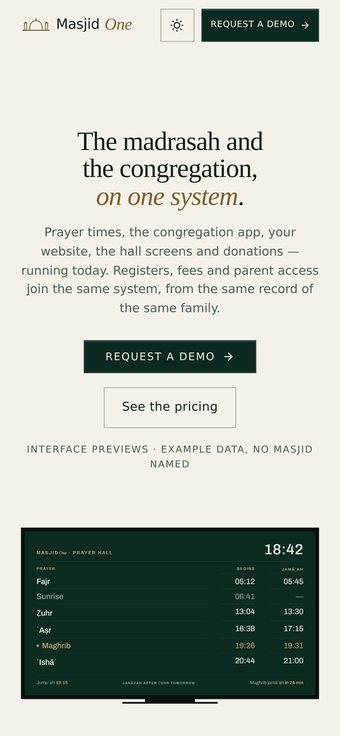
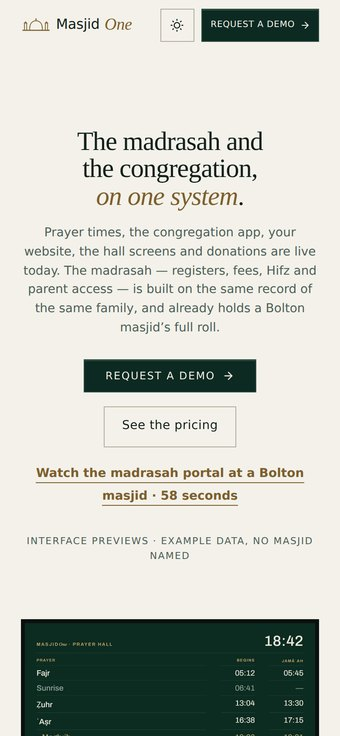
Re-check MasjidOne against its repository: the madrasah portal is built
Seventy commits had landed in that repository since this case study was
written, and the write-up had gone wrong in the expensive direction: it said
the madrasah portal and parent access "are not built yet". Both are built and
enforcing. That repository's own CLAUDE.md records the same error being
corrected on its site on 1 October — features were tagged "in development"
because their tables were empty. Zero rows means nobody has used it yet, not
that it does not exist; the test is whether the functions exist and enforce,
not whether rows do.

The copy now splits the two halves the way that repository splits them,
because they are genuinely at different stages:

- The congregation side runs every day in a Bolton masjid — a year of prayer
  times published, jamāʿah notifications firing off the timetable on their
  own. Defensible, and it was being needlessly withheld.
- The madrasah side is built and holds that masjid's full roll, but no
  register has been marked on it, so it is not described as running. "Built"
  and "in a masjid" are the limit; "running" and "in daily use" are not, and
  are not borrowed from the congregation half.
- Nothing is said about reach. "It runs every day" is true; "a congregation
  uses it" is not. The demo's reach figure is invented sample data and stays
  out of any sentence about a real masjid.

One thing genuinely is unbuilt and is still labelled so: knowing whether a
hall screen is switched on and talking back.
[…]

Changed region(s): [[0.0588, 0.3125, 0.9412, 0.6875], [0.0588, 0.7188, 0.9412, 1.0]]

diff --git a/src/data/cases.js b/src/data/cases.js
@@ -224,10 +224,10 @@ export const cases = {
     "slug": "masjidone",
     "title": "MasjidOne",
     "kind": "Own product",
-    "role": "Next.js 15, static export · TypeScript · Tailwind · shadcn/ui · Supabase Postgres · Stripe · OneSignal",
-    "problem": "A masjid runs its week across half a dozen systems that have never heard of each other &mdash; prayer times in one, the website in another, the madrasah register on paper, fees in a book, donations somewhere else again. The office knows the same family three separate times and can only join them up by remembering. Plenty of products do the congregation side well; the part nobody does is the <strong>madrasah's daily operations</strong> &mdash; the register marked each evening, the sabaq heard, the fee due &mdash; in the same system, and then giving a parent a view of their own child.",
-    "approach": "So MasjidOne is one record of one family, reachable from both sides. Four surfaces per masjid &mdash; the website, the in-building screens, a congregation app and the office portal &mdash; on one Supabase Postgres, where <strong>every table carries a masjid_id</strong> and every policy and function filters on it. A database per customer would have meant a separate migration, key set and auth setup each time, and the thing that makes the product work happens <em>inside</em> one masjid rather than between them, so the separation would have bought nothing and cost a great deal to run. Row Level Security and SECURITY DEFINER functions scope every query to one masjid; Stripe runs an account per masjid at 0% commission on donations.",
-    "outcome": "This is the part of it I have built and can show: the marketing site a committee lands on after a conversation. Next.js 15 exported to static files, so there is nothing running at request time and nothing to keep patched. <strong>The madrasah portal and parent access are not built yet</strong>, and the pricing page says so in the plan itself rather than in a footnote &mdash; one plan reads <em>in development</em>, the other <em>live</em>. Every interface shown on the site is labelled as a preview with example data and no masjid named.",
+    "role": "Next.js 15, static export · TypeScript · Tailwind · shadcn/ui · Supabase Postgres with Row Level Security · Stripe · OneSignal · Cloudflare Worker",
+    "problem": "A masjid runs its week across half a dozen systems that have never heard of each other &mdash; prayer times in one, the website in another, the madrasah register on paper, fees in a book, donations somewhere else again. The office knows the same family three separate times and can only join them up by remembering; right now <em>the masjid is the integration</em>. Plenty of products do the congregation side well. The part nobody does is the <strong>madrasah’s daily operations</strong> &mdash; the register marked each evening, the sabaq heard, the fee due &mdash; in the same system, and then giving a parent a view of their own child.",
+    "approach": "One record of one family, reachable from both sides. Four surfaces per masjid &mdash; the website, the in-building screens, a congregation app and the office portal &mdash; on one Supabase Postgres, where <strong>every table carries a masjid_id</strong> and every policy and function filters on it. A database per customer would have meant a separate migration, key set and auth setup each time, and the thing that makes the product work happens <em>inside</em> one masjid rather than between them, so the separation would have bought nothing and cost a great deal to run. Row Level Security and SECURITY DEFINER functions scope every query to one masjid; Stripe runs an account per masjid at 0% commission on donations.<br><br>The doors are deliberately separate rather than one portal behind a permissions matrix. A teacher sees their own classes and nothing else &mdash; not the roll, not fees, not another teacher’s register. And <strong>a parent is not a smaller administrator</strong>: they arrive to answer one question about their own child, and should never land on a screen implying the rest of the madrasah is theirs to look at.",
+    "outcome": "The madrasah portal is built &mdash; registers, fees, Hifz and sabaq progress, and parent access &mdash; and it holds a Bolton masjid’s full roll. <strong>The two halves are at different stages and the copy says so separately</strong>, because they are not in the same place: the congregation side runs every day, with a year of prayer times published and jamāʿah notifications firing off the timetable on their own, while the madrasah side is built and loaded but the office has not started marking registers on it — so it is not described as running. One piece is genuinely unbuilt and still labelled as such: knowing whether a hall screen is switched on and talking back.<br><br>Getting that right needed a rule rather than a glance. Features were being tagged <em>in development</em> because their tables were empty &mdash; but <strong>zero rows means nobody has used it yet, not that it does not exist</strong>. The test is whether the functions exist and enforce, not whether rows do.<br><br>Alongside the public site sit five module pages, a demonstration tenant anyone can walk through on invented data, and a support console that is the one page touching the real platform. Every gate on it is in Postgres rather than in the page: the anonymous role holds no EXECUTE, a platform admin needs a completed second factor, and entering a masjid you do not belong to writes a support-access row into <em>their</em> audit trail.",
     "links": [],
     "shots": [
       {
@@ -235,15 +235,23 @@ export const cases = {
         "alt": "The MasjidOne home page: the madrasah and the congregation, on one system",
         "w": 760,
         "h": 475,
-        "caption": "The marketing site · previews labelled as previews",
+        "caption": "The marketing site · every interface on it labelled as a preview",
         "portrait": false
       },
       {
-        "src": "/assets/img/masjidone-pricing.jpg",
-        "alt": "The pricing page, with the madrasah plan tagged in development and the complete plan tagged live",
+        "src": "/assets/img/masjidone-teacher.jpg",
+        "alt": "A teacher's register in the demonstration tenant, with invented pupils marked in, late or absent",
         "w": 760,
         "h": 475,
-        "caption": "Pricing · what is built says live, what is not says in development",
+        "caption": "Tonight’s register · a teacher sees their own classes and nothing else",
+        "portrait": false
+      },
+      {
+        "src": "/assets/img/masjidone-parent.jpg",
+        "alt": "Parent access in the demonstration tenant: two invented children, their attendance for the week and a button to report an absence",
+        "w": 760,
+        "h": 475,
+        "caption": "Parent access · their own children, their attendance, and a way to report an absence",
         "portrait": false
       },
       {
@@ -255,7 +263,7 @@ export const cases = {
         "portrait": true
       }
     ],
-    "description": "A product putting a masjid's madrasah and its congregation on one system — one record of one family, on Supabase with a masjid_id on every table."
+    "description": "A product joining a masjid's madrasah to its congregation: one record of one family on Supabase, with a masjid_id on every table."
   },
   "ellash": {
     "slug": "ellash",

diff --git a/src/data/projects.js b/src/data/projects.js
@@ -58,12 +58,12 @@ export const lead = [
     slug: 'masjidone', href: '/masjidone.html', name: 'MasjidOne',
     kind: 'Own product', where: 'Bolton',
     product: true,
-    status: 'In development',
-    stack: 'Next.js 15, static export · TypeScript · Tailwind · shadcn/ui · Supabase Postgres · Stripe',
-    outcome: 'Four surfaces on one Supabase Postgres, with a masjid_id on every table and Row Level Security scoping every query to one masjid. The marketing site is built and published; the madrasah portal and parent access are in development, and the pricing page says which is which on the plan card itself.',
+    status: 'In one masjid',
+    stack: 'Next.js 15, static export · TypeScript · Tailwind · shadcn/ui · Supabase Postgres with RLS · Stripe · OneSignal · Cloudflare Worker',
+    outcome: 'Four surfaces on one Supabase Postgres, with a masjid_id on every table and Row Level Security scoping every query to one masjid. The congregation side runs every day in a Bolton masjid; the madrasah portal — registers, fees, Hifz and sabaq, parent access — is built and holds that masjid’s full roll.',
     problem: 'The office knows the same family three separate times — prayer times in one system, the website in another, the register on paper, fees in a book — and can only join them up by remembering.',
-    approach: 'One Supabase Postgres behind four surfaces per masjid, with Row Level Security scoping every query to one masjid. What I have built and can show is the marketing site: Next.js 15 exported to static files. The madrasah portal and parent access are not built yet, and the pricing page says so in the plan itself.',
-    layers: { interface: 88, software: 94, infra: 82 },
+    approach: 'One Supabase Postgres behind four surfaces per masjid, with Row Level Security and SECURITY DEFINER functions scoping every query to one masjid. The doors are separate rather than one portal behind a permissions matrix: a teacher sees their own classes and nothing else, and a parent is not a smaller administrator. The support console touches the real platform, and every gate on it is in Postgres rather than in the page.',
+    layers: { interface: 90, software: 98, infra: 88 },
     img: '/assets/img/masjidone-web.jpg', alt: 'The MasjidOne marketing site',
   },
 ];

diff --git a/CLAUDE.md b/CLAUDE.md
@@ -96,7 +96,7 @@ material to carry a screenshot-led layout.
 | The Venetian Company | Paying client, live on their own domain | 4 |
 | Hair by Chrissy | Paying client | 4 |
 | Diamond Heating & Plumbing | Paying client, **built and not live yet** | 3 |
-| MasjidOne | **Own product**, part-built — not client work | 3 |
+| MasjidOne | **Own product**, running at one masjid — not client work | 4 |
 
 Do not imply these were all commissions, and do not imply they are all live.
 Taiyabah is community work; say so. Diamond is finished and handed over but
@@ -117,7 +117,7 @@ thing to branch on.
 **`status` in `projects.js`** drives the badge printed over each homepage
 shot. Omit it and the project gets the pulsing "Live" chip; set it and that
 exact string prints flat instead — currently "Not live yet" for Diamond and
-"In development" for MasjidOne. It replaced a boolean, which could only say
+"In one masjid" for MasjidOne. It replaced a boolean, which could only say
 live or not and had no way to describe a published marketing site in front of
 a part-built product. A Live badge on either is the kind of claim the copy
 rules bar, so put the honest label here rather than dropping the badge.
@@ -190,7 +190,7 @@ Four navigable pages, five case studies, three unlisted.
 | `/venetian.html` | Case study — client, live on own domain | via work |
 | `/hairbychrissy.html` | Case study — client | via work |
 | `/diamond.html` | Case study — client, built and not live yet | via work |
-| `/masjidone.html` | Case study — own product, in development | via work |
+| `/masjidone.html` | Case study — own product, running at one masjid | via work |
 | `/about.html` | About, with services folded in | yes |
 | `/contact.html` | Contact | yes |
 | `/ellash.html` `/buxtravel.html` `/luxescent.html` | Kept, unlisted | no |
@@ -219,7 +219,7 @@ Revised in Phase 5 when the rig and the estimator arrived.
    outcome and a layer read-out showing which of the three layers that
    project actually needed. The heading is "Selected work", not "Things I
    have actually shipped" — that line is now the first group's subhead,
-   because it is not true of a product still in development and an h2 that
+   because it is not true of a product with no paying customers yet, and an h2 that
    argues with the card under it is worse than a plainer h2. Outline is
    h2 section → h3 group → h4 project, the same shape the work index uses.
 3. **Build your stack** — the estimator. Takes the abstract "three layers"
@@ -448,6 +448,40 @@ labels clip. Do not ship it without the font.
 `YSB Ventures Ltd` appears in that repository's README and is deliberately
 **not** carried across — the limited-company details were removed from this
 site at the user's request and stay off.
+
+**Phase 12 — MasjidOne re-checked against its repository. DONE.** Seventy
+commits had landed there since the case study was written, and the write-up had
+gone wrong in the **expensive direction**: it said the madrasah portal and
+parent access "are not built yet". Both are built and enforcing, and that
+repository's own `CLAUDE.md` records the same error being corrected on its
+site on 1 October 2026 — features were tagged *in development* because their
+tables were empty. **Zero rows means nobody has used it yet, not that it does
+not exist.** The test is whether the functions exist and enforce, not whether
+rows do.
+
+What the copy now says, split the way that repository splits it, because the
+two halves are genuinely at different stages:
+
+- **The congregation side runs every day** in a Bolton masjid — a year of
+  prayer times published, jamāʿah notifications firing off the timetable on
+  their own. That is defensible and was being needlessly withheld.
+- **The madrasah side is built and holds that masjid's full roll**, but no
+  register has been marked on it, so it is *not* described as running. "Built"
+  and "in a masjid" are the limit; "running" and "in daily use" are not, and
+  must not be borrowed from the congregation half.
+- **Nothing is said about reach.** The notifications go to a handful of
+  devices. "It runs every day" is true; "a congregation uses it" is not, and
+  the demo's reach fixture is invented sample data that must never appear in a
+  sentence about a real masjid.
+
+The stale pricing screenshot was deleted rather than recaptioned: it showed
+*in development* tags that no longer exist anywhere on that site. Two
+screenshots replace it, both from the demonstration tenant on invented data
+with its banner in frame — a teacher's register, and parent access, which is
+the single best evidence for the thing the old copy denied.
+
+`YSB Ventures Ltd` is named in that repository and is still deliberately not
+carried across.
 
 ### Known, unfixed
 
